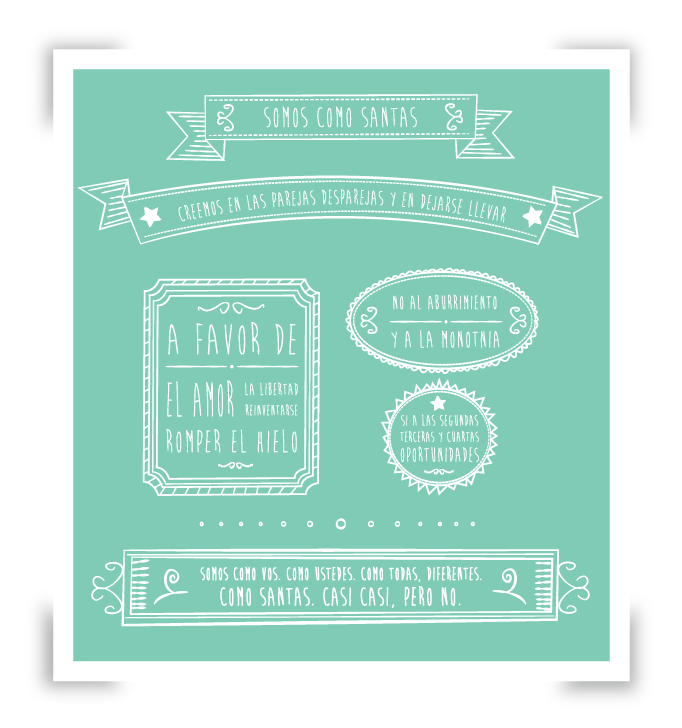
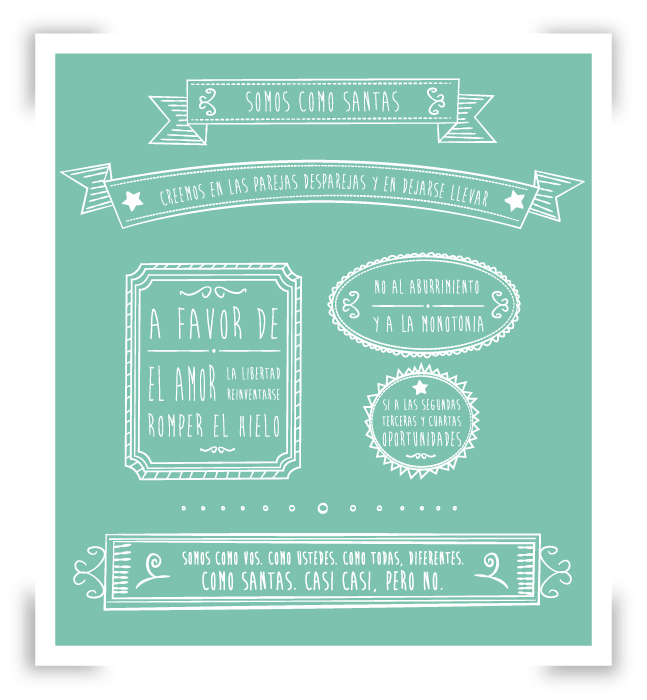
ajustando placa manifesto

Changed region(s): [[0.0309, 0.03, 0.9583, 0.99], [0.1855, 0.36, 0.8037, 0.69]]

diff --git a/website/wp-content/themes/comosantas/style.css b/website/wp-content/themes/comosantas/style.css
@@ -1224,13 +1224,13 @@ body.pages div.pages div.splash,
 body.error404 div.pages div.splash,
 body.page div.pages div.splash {
   background-image: url("images/somos_como_santas.png");
-  height: 728px;
-  width: 682px;
+  height: 700px;
+  width: 647px;
   position: absolute;
   top: 50%;
-  margin-top: -364px;
+  margin-top: -350px;
   left: 50%;
-  margin-left: -341px;
+  margin-left: -323px;
 }
 body.pages div.pages.quienes-somos article,
 body.error404 div.pages.quienes-somos article,
